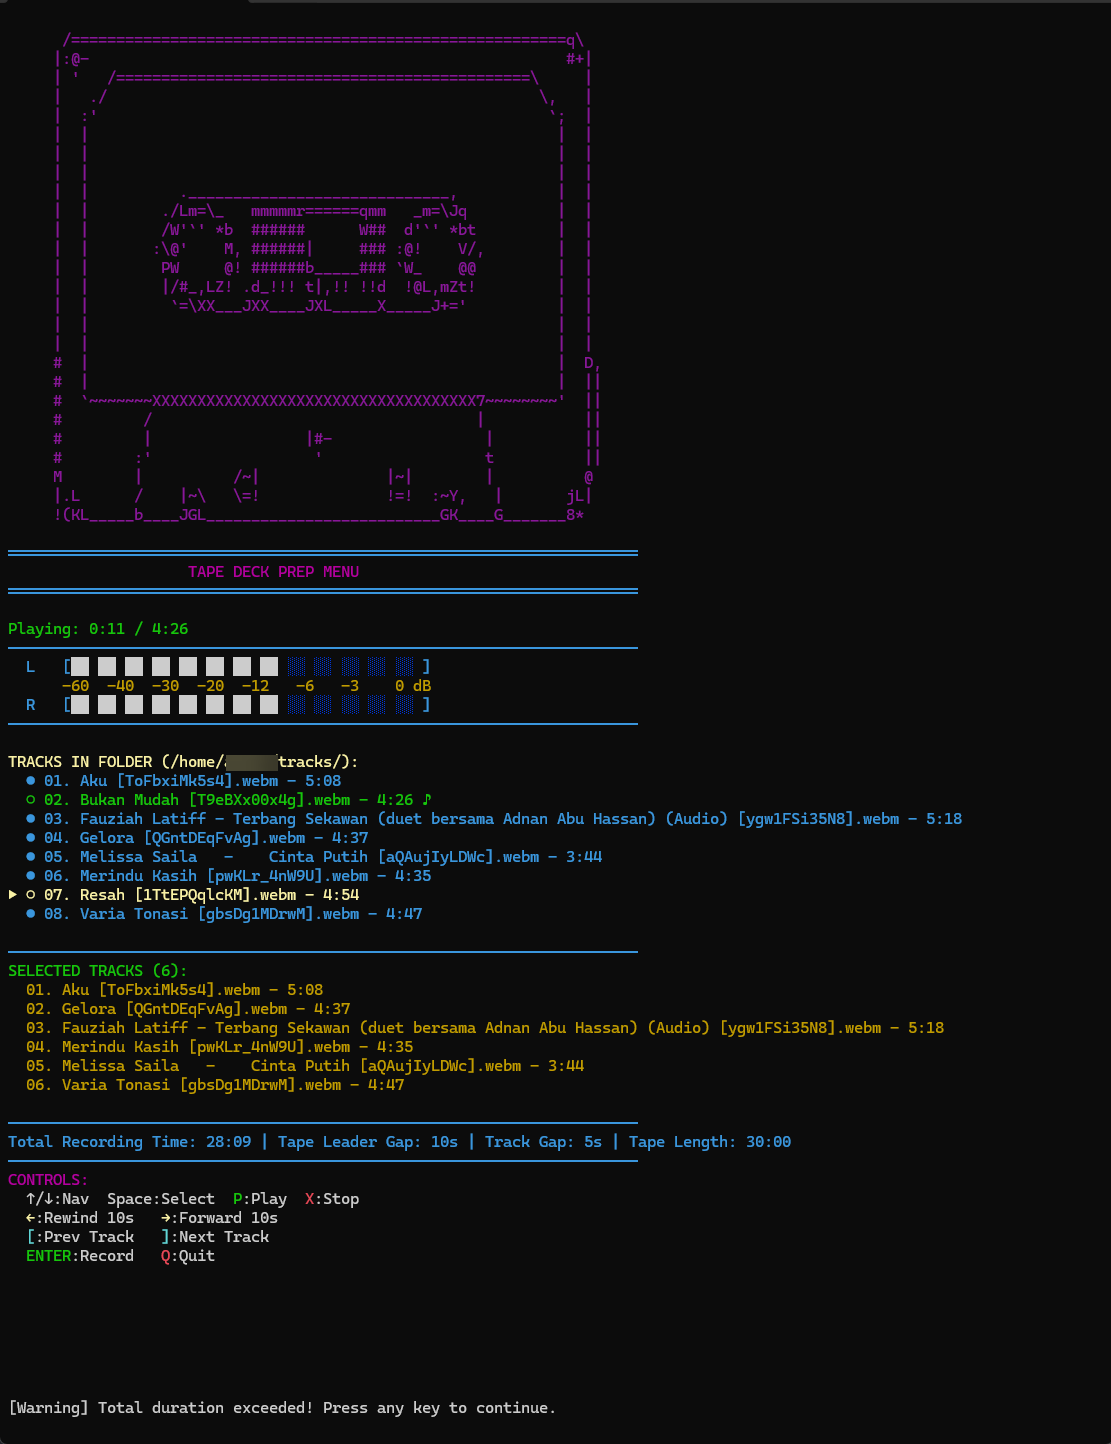
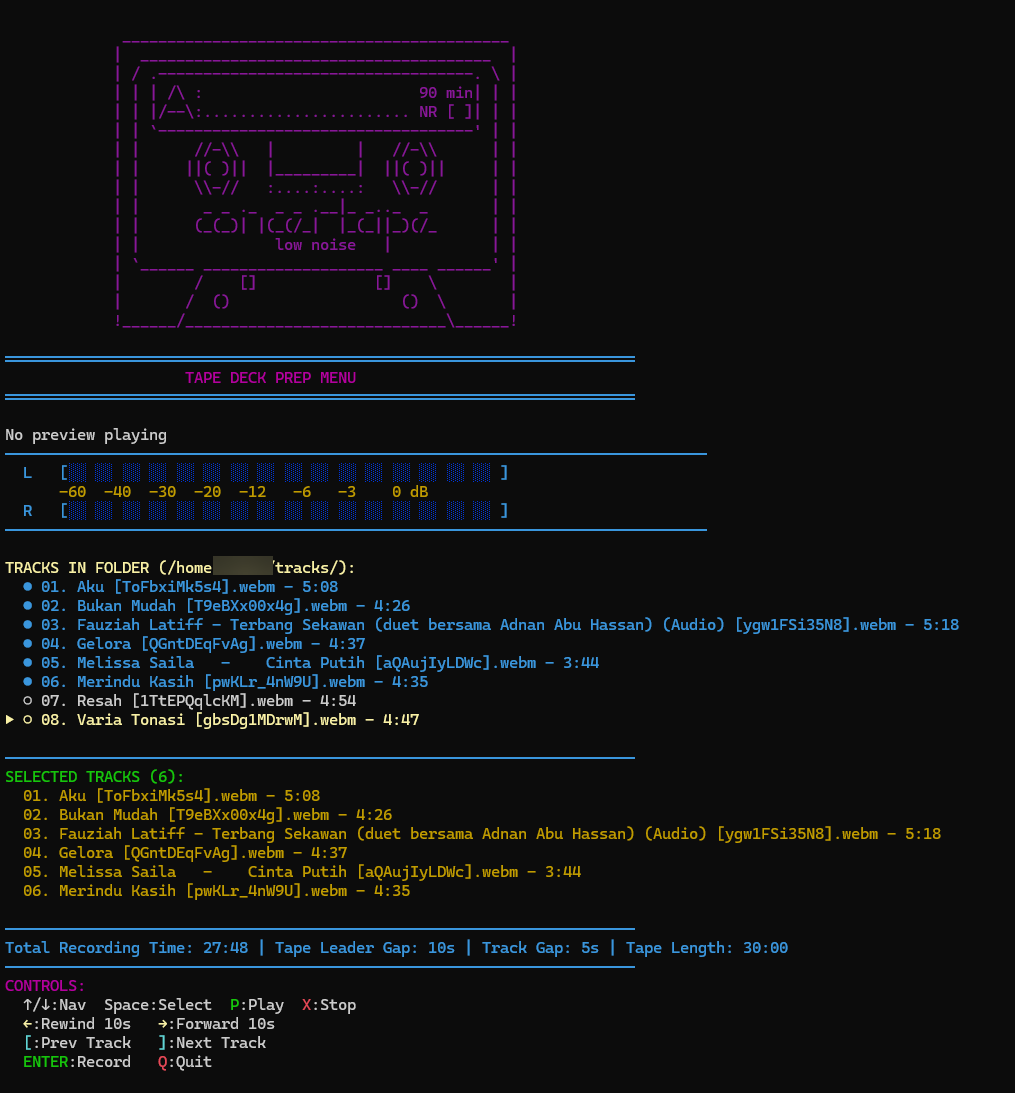
update readme

diff --git a/README.md b/README.md
@@ -3,59 +3,50 @@
 A nostalgic cassette tape recording utility with. Perfect for mixtapes nerd curated playlists to physical cassette tapes with professional-quality preparation and timing control.
 
 ```
- /=======================================================q\
-|:@-                                                     #+|
-| '   /==============================================\     |
-|   ./                                                \,   |
-|  :'                                                  `;  |
-|  |                                                    |  |
-|  |                                                    |  |
-|  |                                                    |  |
-|  |          ._____________________________,           |  |
-|  |        ./Lm=\_   mmmmmr======qmm   _m=\Jq          |  |
-|  |        /W'`' *b  ######      W##  d'`' *bt         |  |
-|  |       :\@'    M, ######|     ### :@!    V/,        |  |
-|  |        PW     @! ######b_____### `W_    @@         |  |
-|  |        |/#_,LZ! .d_!!! t|,!! !!d  !@L,mZt!         |  |
-|  |         `=\XX___JXX____JXL_____X_____J+='          |  |
-|  |                                                    |  |
-|  |                                                    |  |
-#  |                                                    |  D,
-#  |                                                    |  ||
-#  `~~~~~~~XXXXXXXXXXXXXXXXXXXXXXXXXXXXXXXXXXXX7~~~~~~~~'  ||
-#         /                                    |           ||
-#         |                 |#-                 |          ||
-#        :'                  '                  t          ||
-M        |          /~|              |~|        |          @
-|.L      /    |~\   \=!              !=!  :~Y,   |       jL|
-!(KL_____b____JGL__________________________GK____G_______8*
+ ___________________________________________
+|  _______________________________________  |
+| / .-----------------------------------. \ |
+| | | /\ :                        90 min| | |
+| | |/--\:....................... NR [ ]| | |
+| | `-----------------------------------' | |
+| |      //-\\   |         |   //-\\      | |
+| |     ||( )||  |_________|  ||( )||     | |
+| |      \\-//   :....:....:   \\-//      | |
+| |       _ _ ._  _ _ .__|_ _.._  _       | |
+| |      (_(_)| |(_(/_|  |_(_||_)(/_      | |
+| |               low noise   |           | |
+| `______ ____________________ ____ ______' |
+|        /    []             []    \        |
+|       /  ()                   ()  \       |
+!______/_____________________________\______!
 ```
 
 ## ✨ Features
 
-- 🎨 **Retro 80s UI** - Neon colors, ASCII art, and authentic cassette tape aesthetics
+- 🎨 **Retro 80s UI** - Neon colors, clean ASCII cassette art, and authentic tape deck aesthetics
 - 🔊 **Audio Normalization** - Consistent volume levels across all tracks (cached for speed)
   - Supports both **Peak** and **LUFS** normalization methods
   - LUFS normalization for broadcast-standard perceived loudness
   - Configurable target LUFS level (default: -14.0 LUFS)
-- 📟 **4-Digit Tape Counter** - Digital counter with configurable rate matching your deck
-- 📊 **Real-Time VU Meters** - Segmented block displays with actual audio waveform analysis (L/R channels)
+- 📟 **Digital 7-Segment Counter** - Large 4-digit counter display with configurable rate matching your deck
+- 📊 **Real-Time VU Meters** - Wide 50-character segmented block displays with actual audio waveform analysis (L/R channels)
   - **Persistent display** with dB scale (-60 to 0 dB) always visible
-  - Positioned at top of all screens for consistent monitoring
+  - Consistent 50-character width across all screens
   - Live audio level tracking during playback and recording
 - 🎚 **Adaptive Level Scaling** - 95th percentile RMS normalization prevents constant peaking
 - 📼 **Leader Gap Support** - Configurable pre-roll for non-magnetic leader tape
-- ⏱ **Duration Management** - Ensures tracks fit within cassette tape limits
+- ⏱ **Duration Management** - Ensures tracks fit within cassette tape limits with visual warning
 - 🎵 **Advanced Track Preview** - VCR-style playback with seek, play/pause, and track switching
 - ⏪ **Seek Controls** - Rewind/forward 10 seconds during playback
-- 🎮 **Navigation While Playing** - Browse tracks while music continues in background
+- 🎮 **Smart Navigation** - Browse tracks (stops at first/last, no wraparound) while music continues in background
 - 📝 **Timestamped Tracklists** - Creates unique reference files with counter positions
 - ⏸ **Configurable Track Gaps** - Set silence between tracks
-- 🎬 **Large ASCII Art Countdown** - Massive 7-line tall countdown display before recording
+- 🎬 **Large Digital Countdown** - Massive 7-segment style countdown with recording reminder
 - 📈 **Visual Progress Bars** - Real-time progress indicators for both tracks and total recording time
 - 🏷 **Descriptive Labels** - Clear, self-explanatory UI labels (Track Gap, Tape Leader Gap, Total Recording Time, Tape Length)
 - 🔧 **Audio Latency Compensation** - Adjustable sync between VU meters and audio output for perfect timing
 - 📂 **Folder Path Display** - Shows current working folder in track list header
+- 🔴 **Capacity Warning** - Red blinking alert when track selection exceeds tape length
 
 ## 📋 Requirements
 
@@ -240,19 +231,19 @@ deckpreprec/
 ### Main Menu (Track Selection)
 | Key | Action |
 |-----|--------|
-| `↑` / `↓` | Navigate tracks (keeps current track playing) |
+| `↑` / `↓` / `K` / `J` | Navigate tracks (stops at first/last, keeps current track playing) |
 | `Space` | Select/deselect track for recording |
 | `P` | Play/Pause track (toggle playback) |
 | `X` | Stop playback and reset position |
 | `←` / `→` | Rewind/Forward 10 seconds (while playing) |
-| `[` / `]` | Jump to previous/next track and play |
+| `[` / `]` | Jump to previous/next track and play (stops at boundaries) |
 | `Enter` | Start recording process |
 | `Q` | Quit application |
 
 ### Normalization Preview Mode
 | Key | Action |
 |-----|--------|
-| `↑` / `↓` | Navigate tracks (keeps current track playing) |
+| `↑` / `↓` / `K` / `J` | Navigate tracks (keeps current track playing) |
 | `P` | Play/Pause track (toggle playback) |
 | `X` | Stop playback and reset position |
 | `←` / `→` | Rewind/Forward 10 seconds (while playing) |
@@ -290,18 +281,21 @@ deckpreprec/
    - Full playback controls available during preview
 
 4. **Deck Preparation**
-   - Press `Enter` to start **large ASCII art countdown** (7 lines tall)
-   - Set your cassette deck to RECORD mode
-   - Watch the massive countdown numbers
+   - Press `Enter` to start **large digital 7-segment countdown**
+   - **Important reminder displayed:** "PRESS RECORD ON YOUR DECK WHEN COUNTDOWN HITS 0"
+   - Prepare your cassette deck while countdown runs
+   - Watch the massive digital countdown numbers
    - Can cancel with `Q` if needed
 
 5. **Recording**
+   - **Press RECORD on your deck when countdown hits 0**
    - Leader gap countdown (default 10s for non-magnetic tape)
-   - Tape counter starts at 0000 during leader gap
+   - Large digital tape counter displayed prominently
+   - Counter starts incrementing from 0000 during leader gap
    - First track starts after leader gap
-   - **Monitor real-time VU meters at top** (L/R channels with dB scale)
+   - **Monitor real-time VU meters** (50-character width, L/R channels with dB scale)
    - **Visual progress bars** for current track and total recording time
-   - Watch tape counter and track progress
+   - Watch digital tape counter and track progress
    - Timestamped tracklist saved automatically
 
 6. **Reference Your Tracklist**
@@ -341,19 +335,26 @@ deckpreprec/
 ## 🎨 UI Design Details
 
 - **Neon Color Scheme:** Cyan, magenta, yellow, green, red, white
-- **ASCII Cassette Art:** Authentic tape graphics in menu and recording mode
-- **Digital Counter Display:** 4-digit LED-style counter with real-time updates
-- **Segmented VU Meters:** Block character displays (██) with full dB scale (-60 to 0 dB)
-  - Always visible at top of screen during all modes
+- **Clean ASCII Cassette Art:** Modern, detailed tape graphics with reels and label area
+- **Digital 7-Segment Counter:** Large 4-digit display with authentic LED calculator/digital watch style
+  - 7-line tall digits for excellent visibility
+  - "[TAPE COUNTER]" label for clarity
+  - Real-time updates during recording
+- **Wide Segmented VU Meters:** 50-character block displays (██) with full dB scale (-60 to 0 dB)
+  - Consistent width across all screens (normalization, main menu, recording)
+  - Always visible during playback and recording
   - Real-time stereo channel monitoring (L/R)
   - Color-coded zones for visual feedback
 - **Dynamic Color Zones:** White (0-85%) → Red (85-100%) peak indicators
 - **Waveform Analysis:** Pre-computed RMS levels with 50ms chunk resolution
 - **Retro Box Drawing:** Double-line borders and frames (╔═╗╚╝)
-- **Large ASCII Art Countdown:** Massive 7-line tall numbers with blink effect
+- **Large Digital Countdown:** Massive 7-segment style numbers (7 lines tall) with blink effect
+- **Recording Reminder:** Red blinking text during countdown: "PRESS RECORD ON YOUR DECK WHEN COUNTDOWN HITS 0"
 - **Progress Bars:** Color-coded bars (█ and ░) for track and total time
 - **Track Preview Indicator:** Musical note (♪) symbol for playing tracks
+- **Capacity Warning:** Red blinking highlight when track selection exceeds tape length
 - **Clear Labels:** Descriptive text throughout (no cryptic abbreviations)
+- **Smart Navigation:** Stops at list boundaries instead of wrapping around
 
 ## 📝 Configuration Tips
 
